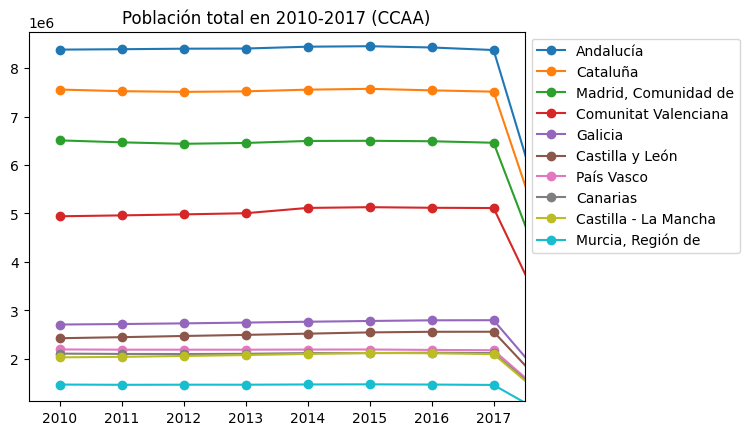
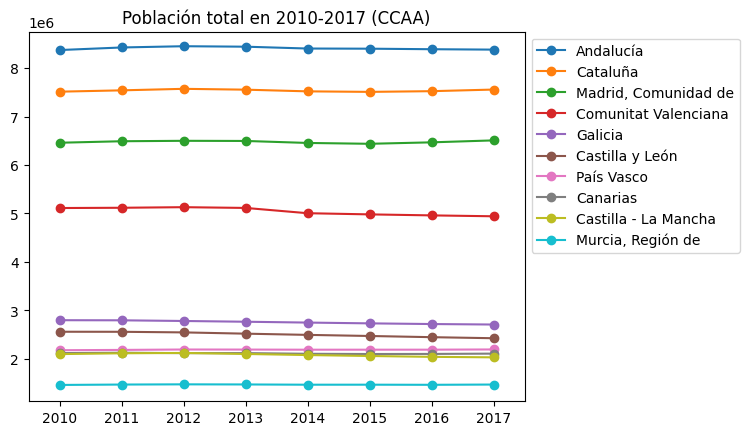
Práctica 1, R5 Fix: Gráfico mostraba los años de 2017 a 2010 y no al revés. TODO: Modularizar código.

diff --git a/poblacionP1/R5.py b/poblacionP1/R5.py
@@ -48,7 +48,8 @@ def salida_html_R5(fichero, html_crear):
     plt.axis([0, len(anios), 1125000, 8750000])
 
     for comunidad in comunidades_mas_poblacion:
-        plt.plot(dict_resultados[comunidad], marker="o", label=comunidades_autonomas[comunidad])
+        # Le damos la vuelta porque mostraría de 2017 a 2010.
+        plt.plot(dict_resultados[comunidad][0:len(anios)][::-1], marker="o", label=comunidades_autonomas[comunidad])
 
     plt.legend(loc="upper left", bbox_to_anchor=(1, 1))
 
@@ -75,5 +76,9 @@ def salida_html_R5(fichero, html_crear):
                    "height='500'>\n")
 
 
-if __name__ == "__main__":
+def ejecutar_R5():
     salida_html_R5('./salidas/r2.csv', './salidas/salidaR4.html')
+
+
+if __name__ == "__main__":
+    ejecutar_R5()
